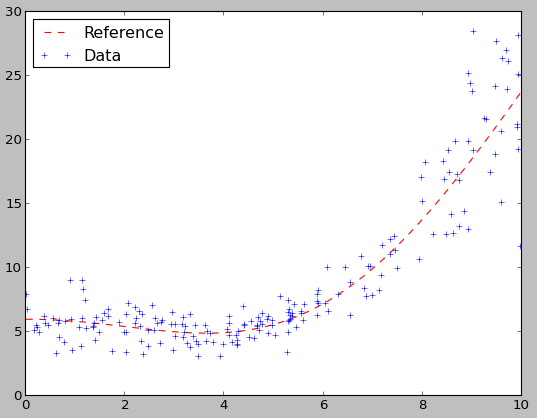
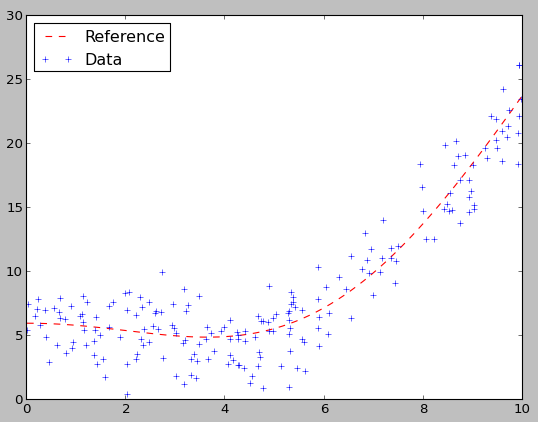
Started tutorial on non param regression Corrected important bug in kernel_smoothing

diff --git a/pyqt_fit/kernel_smoothing.py b/pyqt_fit/kernel_smoothing.py
@@ -72,9 +72,9 @@ class SpatialAverage(object):
     @covariance.setter
     def covariance(self, cov):
         if callable(cov):
-            _cov = np.atleast_2d(bw(self.xdata, self.ydata))
+            _cov = np.atleast_2d(cov(self.xdata, self.ydata))
         else:
-            _cov = np.atleast_2d(bw)
+            _cov = np.atleast_2d(cov)
         self._bw = None
         self._covariance = _cov
         self._inv_cov = scipy.linalg.inv(_cov)

diff --git a/docs/NonParam_tut.rst b/docs/NonParam_tut.rst
@@ -63,7 +63,7 @@ For our example, lets first degine our target function::
 Then, we will generate our data::
 
   >>> xs = np.random.rand(200) * 10
-  >>> ys = f(xs) * (1+0.2*np.random.randn(*xs.shape))
+  >>> ys = f(xs) + 2*np.random.randn(*xs.shape)
 
 We can then visualize the data::
 
@@ -81,8 +81,84 @@ We can then visualize the data::
 At first, we will try to use a simple Nadaraya-Watson method, or spatial averaging, using a gaussian kernel::
 
   >>> import pyqt_fit.kernel_smoothing as smooth
-  >>> k1 = smooth.SpatialAverage(xs, ys)
-  >>> plt.plot(grid, k1(grid), label="Spatial Averaging")
+  >>> k0 = smooth.SpatialAverage(xs, ys)
+  >>> plt.plot(grid, k0(grid), label="Spatial Averaging")
+  >>> plt.legend(loc='best')
+
+.. figure:: NonParam_tut_spatial_ave.png
+  :align: center
+
+  Result of the spatial averaging.
+
+As always during regressionm we need to look at the residuals::
+
+  >>> from pyqt_fit import plot_fit
+  >>> yopts = k0(xs)
+  >>> res = ys - yopts
+  >>> plot_fit.plot_residual_tests(xs, yopts, res, 'Spatial Average')
+
+.. figure:: NonParam_tut_spatial_ave_test.png
+  :align: center
+
+  Residuals of the Spatial Averaging regression
+
+We can see from the data that the inside of the curve is well-fitted. However,
+the boundaries are not. This is extremely visible on the right boundary, where
+the data is clearly under-fitted. This is a typical problem with spatial
+averaging, as it doesn't cope well with strong maxima, especially on the
+boundaries. As an improvement, we can try local-linear or local-polynomial. The
+process is exactly the same::
+
+  >>> k1 = smooth.LocalLinearKernel1D(xs, ys)
+  >>> k2 = smooth.LocalPolynomialKernel1D(xs, ys, q=2)
+  >>> k3 = smooth.LocalPolynomialKernel1D(xs, ys, q=3)
+  >>> k15 = smooth.LocalPolynomialKernel1D(xs, ys, q=15)
+  >>> plt.figure()
+  >>> plt.plot(xs, ys, '+', label='Data')
+  >>> plt.plot(grid, f(grid), 'r--', label='Target')
+  >>> plt.plot(grid, k1(grid), 'g', label='linear')
+  >>> plt.plot(grid, k2(grid), 'k', label='quadratic')
+  >>> plt.plot(grid, k3(grid), 'y', label='cubic')
+  >>> plt.plot(grid, k15(grid), 'b', label='polynom order 15')
+  >>> plt.legend(loc='best')
+
+.. figure:: NonParam_tut_spatial_poly.png
+  :align: center
+
+  Result of polynomial fitting with orders 1, 2, 3 and 15
+
+In this example, we can see that linear, quadratic and cubic give very similar
+result, while a polynom of order 15 is clearly over-fitting the data. Looking
+closer at the data, we can see that the linear fit seems to be better adapted,
+as quadratic and cubic both seem to over-fit the data. Note that this is not to
+be generalise and is very dependent on the data you have! We can now redo the
+residual plots::
+
+  >>> yopts = k1(xs)
+  >>> res = ys - yopts
+  >>> plot_fit.plot_residual_tests(xs, yopts, res, 'Local Linear')
+
+.. figure:: NonParam_tut_spatial_ll_test.png
+  :align: center
+
+  Residuals of the Local Linear Regression
+
+We can also look at the residuals for the quadratic polynomial::
+
+  >>> yopts = k2(xs)
+  >>> res = ys - yopts
+  >>> plot_fit.plot_residual_tests(xs, yopts, res, 'Local Quadratic')
+
+.. figure:: NonParam_tut_spatial_lq_test.png
+  :align: center
+
+  Residuals of the Local Quadratic Regression
+
+We can see from the structure of the noise that the quadratic curve, although
+farther from our target, seems to fit much better the data. Unlike in the local
+linear regression, we do not have significant bias along the X axis. Also, the
+residuals seem "more normal" (i.e. the points in the QQ-plot are better aligned)
+than in the linear case.
 
 Confidence Intervals
 --------------------
